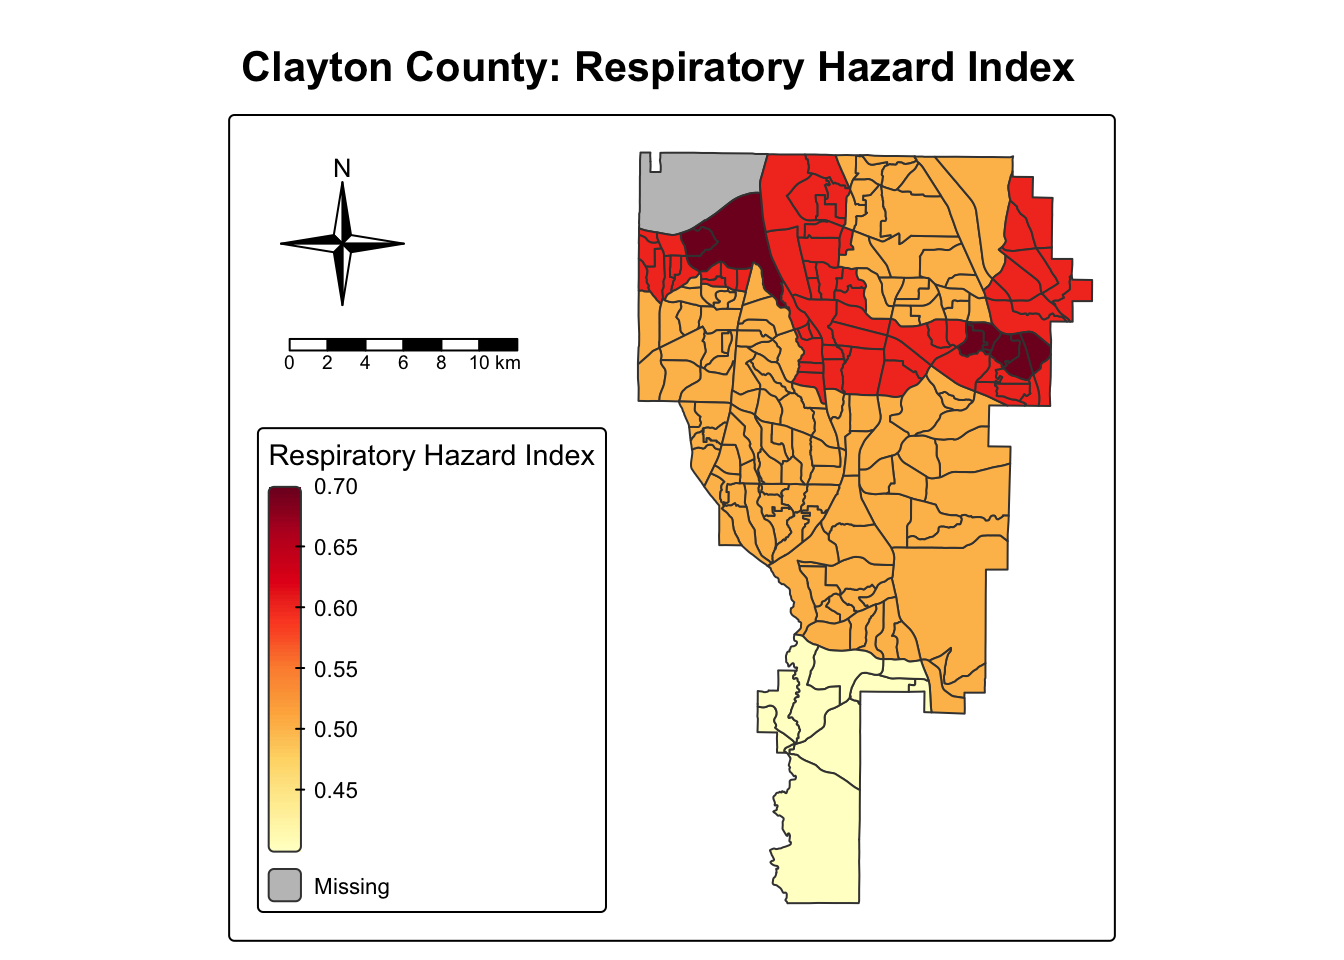
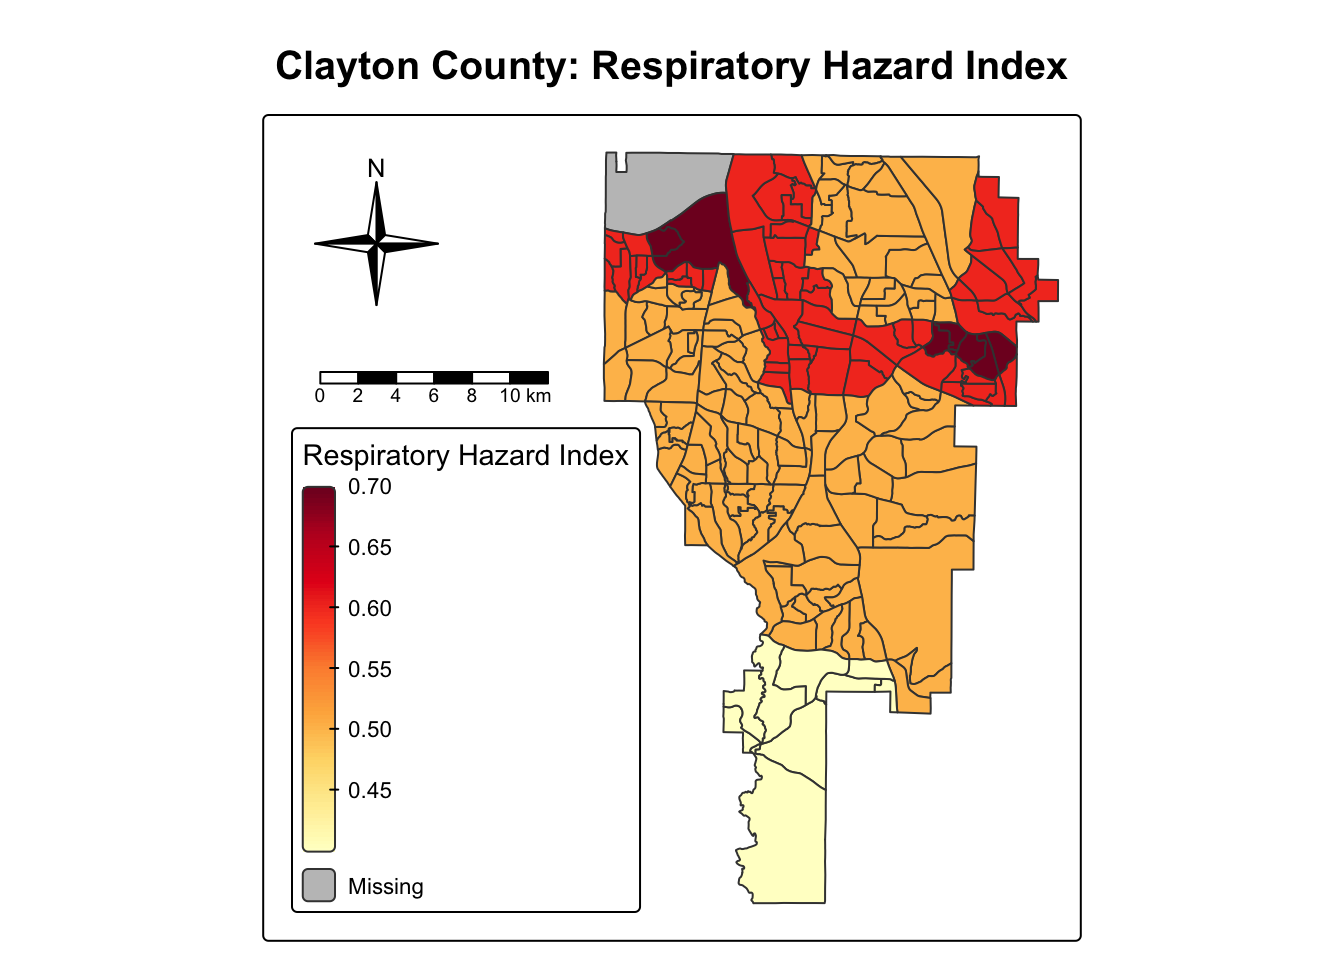
Adjust comments

diff --git a/eds223-hw1/ej_screen.html b/eds223-hw1/ej_screen.html
@@ -119,30 +119,34 @@ Projected CRS: WGS 84 / Pseudo-Mercator</code></pre>
 <section id="georgia-usa" class="level1">
 <h1>Georgia, USA</h1>
 <div class="cell">
-<div class="sourceCode cell-code" id="cb4"><pre class="sourceCode r code-with-copy"><code class="sourceCode r"><span id="cb4-1"><a href="#cb4-1" aria-hidden="true" tabindex="-1"></a><span class="co"># filter to georgia state</span></span>
+<div class="sourceCode cell-code" id="cb4"><pre class="sourceCode r code-with-copy"><code class="sourceCode r"><span id="cb4-1"><a href="#cb4-1" aria-hidden="true" tabindex="-1"></a><span class="co"># filter to Georgia state</span></span>
 <span id="cb4-2"><a href="#cb4-2" aria-hidden="true" tabindex="-1"></a>georgia <span class="ot">&lt;-</span> ejscreen <span class="sc">|&gt;</span> </span>
 <span id="cb4-3"><a href="#cb4-3" aria-hidden="true" tabindex="-1"></a>  <span class="fu">filter</span>(ST_ABBREV <span class="sc">==</span> <span class="st">"GA"</span>) </span>
 <span id="cb4-4"><a href="#cb4-4" aria-hidden="true" tabindex="-1"></a></span>
 <span id="cb4-5"><a href="#cb4-5" aria-hidden="true" tabindex="-1"></a><span class="co"># filter to Clayton County, Georgia</span></span>
 <span id="cb4-6"><a href="#cb4-6" aria-hidden="true" tabindex="-1"></a>clayton <span class="ot">&lt;-</span> georgia <span class="sc">|&gt;</span> </span>
-<span id="cb4-7"><a href="#cb4-7" aria-hidden="true" tabindex="-1"></a>  <span class="fu">filter</span>(CNTY_NAME <span class="sc">%in%</span> <span class="fu">c</span>(<span class="st">"Clayton County"</span>))</span>
-<span id="cb4-8"><a href="#cb4-8" aria-hidden="true" tabindex="-1"></a></span>
-<span id="cb4-9"><a href="#cb4-9" aria-hidden="true" tabindex="-1"></a><span class="co"># find average values for all variables within counties</span></span>
-<span id="cb4-10"><a href="#cb4-10" aria-hidden="true" tabindex="-1"></a>georgia_counties_means <span class="ot">&lt;-</span> <span class="fu">aggregate</span>(georgia, <span class="at">by =</span> <span class="fu">list</span>(georgia<span class="sc">$</span>CNTY_NAME), <span class="at">FUN =</span> mean)</span></code><button title="Copy to Clipboard" class="code-copy-button"><i class="bi"></i></button></pre></div>
+<span id="cb4-7"><a href="#cb4-7" aria-hidden="true" tabindex="-1"></a>  <span class="fu">filter</span>(CNTY_NAME <span class="sc">%in%</span> <span class="fu">c</span>(<span class="st">"Clayton County"</span>))</span></code><button title="Copy to Clipboard" class="code-copy-button"><i class="bi"></i></button></pre></div>
 </div>
 <div class="cell">
 <div class="sourceCode cell-code" id="cb5"><pre class="sourceCode r code-with-copy"><code class="sourceCode r"><span id="cb5-1"><a href="#cb5-1" aria-hidden="true" tabindex="-1"></a><span class="co"># Create first map</span></span>
 <span id="cb5-2"><a href="#cb5-2" aria-hidden="true" tabindex="-1"></a><span class="fu">tm_shape</span>(clayton) <span class="sc">+</span></span>
 <span id="cb5-3"><a href="#cb5-3" aria-hidden="true" tabindex="-1"></a>  <span class="fu">tm_polygons</span>(<span class="at">fill =</span> <span class="st">"PEOPCOLORPCT"</span>,</span>
-<span id="cb5-4"><a href="#cb5-4" aria-hidden="true" tabindex="-1"></a>              <span class="at">fill.scale =</span> <span class="fu">tm_scale_continuous</span>(<span class="at">values =</span> <span class="st">'brewer.yl_or_rd'</span>),</span>
-<span id="cb5-5"><a href="#cb5-5" aria-hidden="true" tabindex="-1"></a>              <span class="at">fill.legend =</span> <span class="fu">tm_legend</span>(<span class="at">title =</span> <span class="st">"Percent People of Color"</span>,</span>
-<span id="cb5-6"><a href="#cb5-6" aria-hidden="true" tabindex="-1"></a>                                      <span class="at">reverse =</span> <span class="cn">TRUE</span>,</span>
-<span id="cb5-7"><a href="#cb5-7" aria-hidden="true" tabindex="-1"></a>                                      <span class="at">labels =</span> <span class="fu">c</span>(<span class="st">"100%"</span>, <span class="st">"80%"</span>, <span class="st">"60%"</span>, <span class="st">"40%"</span>, <span class="st">"20%"</span>, <span class="st">"0%"</span>))) <span class="sc">+</span></span>
-<span id="cb5-8"><a href="#cb5-8" aria-hidden="true" tabindex="-1"></a>  <span class="fu">tm_title</span>(<span class="at">text =</span> <span class="st">"Clayton County: Percent People of Color"</span>, <span class="at">fontface =</span> <span class="st">'bold'</span>) <span class="sc">+</span></span>
-<span id="cb5-9"><a href="#cb5-9" aria-hidden="true" tabindex="-1"></a>  <span class="fu">tm_compass</span>(<span class="at">position =</span> <span class="fu">c</span>(<span class="st">"left"</span>, <span class="st">"top"</span>), <span class="at">type =</span> <span class="st">'4star'</span>) <span class="sc">+</span> <span class="co"># Add compass</span></span>
-<span id="cb5-10"><a href="#cb5-10" aria-hidden="true" tabindex="-1"></a>  <span class="fu">tm_scalebar</span>(<span class="at">position =</span> <span class="fu">c</span>(<span class="fl">0.05</span>, <span class="fl">0.71</span>), <span class="at">text.size =</span> <span class="fl">0.6</span>) <span class="sc">+</span> <span class="co"># Add scale bar</span></span>
-<span id="cb5-11"><a href="#cb5-11" aria-hidden="true" tabindex="-1"></a>  <span class="fu">tm_layout</span>(<span class="at">legend.position =</span> <span class="fu">c</span>(<span class="st">"left"</span>, <span class="st">"bottom"</span>), </span>
-<span id="cb5-12"><a href="#cb5-12" aria-hidden="true" tabindex="-1"></a>            <span class="at">inner.margins =</span> <span class="fu">c</span>(<span class="fl">0.05</span>, <span class="fl">0.69</span>, <span class="fl">0.05</span>, <span class="fl">0.05</span>)) </span></code><button title="Copy to Clipboard" class="code-copy-button"><i class="bi"></i></button></pre></div>
+<span id="cb5-4"><a href="#cb5-4" aria-hidden="true" tabindex="-1"></a>              <span class="co"># Use tm_scale_continuous for continuous variable</span></span>
+<span id="cb5-5"><a href="#cb5-5" aria-hidden="true" tabindex="-1"></a>              <span class="at">fill.scale =</span> <span class="fu">tm_scale_continuous</span>(<span class="at">values =</span> <span class="st">'brewer.yl_or_rd'</span>),</span>
+<span id="cb5-6"><a href="#cb5-6" aria-hidden="true" tabindex="-1"></a>              </span>
+<span id="cb5-7"><a href="#cb5-7" aria-hidden="true" tabindex="-1"></a>              <span class="co"># Adjust legend</span></span>
+<span id="cb5-8"><a href="#cb5-8" aria-hidden="true" tabindex="-1"></a>              <span class="at">fill.legend =</span> <span class="fu">tm_legend</span>(<span class="at">title =</span> <span class="st">"Percent People of Color"</span>,</span>
+<span id="cb5-9"><a href="#cb5-9" aria-hidden="true" tabindex="-1"></a>                                      <span class="at">reverse =</span> <span class="cn">TRUE</span>,</span>
+<span id="cb5-10"><a href="#cb5-10" aria-hidden="true" tabindex="-1"></a>                                      <span class="at">labels =</span> <span class="fu">c</span>(<span class="st">"100%"</span>, <span class="st">"80%"</span>, <span class="st">"60%"</span>, <span class="st">"40%"</span>, <span class="st">"20%"</span>, <span class="st">"0%"</span>))) <span class="sc">+</span></span>
+<span id="cb5-11"><a href="#cb5-11" aria-hidden="true" tabindex="-1"></a>  </span>
+<span id="cb5-12"><a href="#cb5-12" aria-hidden="true" tabindex="-1"></a>  <span class="co"># Add title, compass, and scalebar</span></span>
+<span id="cb5-13"><a href="#cb5-13" aria-hidden="true" tabindex="-1"></a>  <span class="fu">tm_title</span>(<span class="at">text =</span> <span class="st">"Clayton County: Percent People of Color"</span>, <span class="at">fontface =</span> <span class="st">'bold'</span>) <span class="sc">+</span></span>
+<span id="cb5-14"><a href="#cb5-14" aria-hidden="true" tabindex="-1"></a>  <span class="fu">tm_compass</span>(<span class="at">position =</span> <span class="fu">c</span>(<span class="st">"left"</span>, <span class="st">"top"</span>), <span class="at">type =</span> <span class="st">'4star'</span>) <span class="sc">+</span> </span>
+<span id="cb5-15"><a href="#cb5-15" aria-hidden="true" tabindex="-1"></a>  <span class="fu">tm_scalebar</span>(<span class="at">position =</span> <span class="fu">c</span>(<span class="fl">0.05</span>, <span class="fl">0.71</span>), <span class="at">text.size =</span> <span class="fl">0.6</span>) <span class="sc">+</span> </span>
+<span id="cb5-16"><a href="#cb5-16" aria-hidden="true" tabindex="-1"></a>  </span>
+<span id="cb5-17"><a href="#cb5-17" aria-hidden="true" tabindex="-1"></a>  <span class="co"># Adjust legend position and inner map margins to fit legend inside of map frame</span></span>
+<span id="cb5-18"><a href="#cb5-18" aria-hidden="true" tabindex="-1"></a>  <span class="fu">tm_layout</span>(<span class="at">legend.position =</span> <span class="fu">c</span>(<span class="st">"left"</span>, <span class="st">"bottom"</span>), </span>
+<span id="cb5-19"><a href="#cb5-19" aria-hidden="true" tabindex="-1"></a>            <span class="at">inner.margins =</span> <span class="fu">c</span>(<span class="fl">0.05</span>, <span class="fl">0.69</span>, <span class="fl">0.05</span>, <span class="fl">0.05</span>)) </span></code><button title="Copy to Clipboard" class="code-copy-button"><i class="bi"></i></button></pre></div>
 <div class="cell-output-display">
 <div>
 <figure class="figure">
@@ -161,9 +165,9 @@ Projected CRS: WGS 84 / Pseudo-Mercator</code></pre>
 <span id="cb6-7"><a href="#cb6-7" aria-hidden="true" tabindex="-1"></a>                                      <span class="at">height =</span> <span class="dv">18</span>)) <span class="sc">+</span></span>
 <span id="cb6-8"><a href="#cb6-8" aria-hidden="true" tabindex="-1"></a>  <span class="fu">tm_title</span>(<span class="at">text =</span> <span class="st">"Clayton County: Respiratory Hazard Index"</span>, <span class="at">fontface =</span> <span class="st">'bold'</span>) <span class="sc">+</span></span>
 <span id="cb6-9"><a href="#cb6-9" aria-hidden="true" tabindex="-1"></a>  <span class="fu">tm_compass</span>(<span class="at">position =</span> <span class="fu">c</span>(<span class="st">"left"</span>, <span class="st">"top"</span>), <span class="at">type =</span> <span class="st">'4star'</span>) <span class="sc">+</span></span>
-<span id="cb6-10"><a href="#cb6-10" aria-hidden="true" tabindex="-1"></a>  <span class="fu">tm_scalebar</span>(<span class="at">position =</span> <span class="fu">c</span>(<span class="fl">0.05</span>, <span class="fl">0.75</span>), <span class="at">text.size =</span> <span class="fl">0.6</span>) <span class="sc">+</span></span>
+<span id="cb6-10"><a href="#cb6-10" aria-hidden="true" tabindex="-1"></a>  <span class="fu">tm_scalebar</span>(<span class="at">position =</span> <span class="fu">c</span>(<span class="fl">0.05</span>, <span class="fl">0.71</span>), <span class="at">text.size =</span> <span class="fl">0.6</span>) <span class="sc">+</span></span>
 <span id="cb6-11"><a href="#cb6-11" aria-hidden="true" tabindex="-1"></a>  <span class="fu">tm_layout</span>(<span class="at">legend.position =</span> <span class="fu">c</span>(<span class="st">"left"</span>, <span class="st">"bottom"</span>),</span>
-<span id="cb6-12"><a href="#cb6-12" aria-hidden="true" tabindex="-1"></a>            <span class="at">inner.margins =</span> <span class="fu">c</span>(<span class="fl">0.05</span>, <span class="fl">0.9</span>, <span class="fl">0.05</span>, <span class="fl">0.05</span>))</span></code><button title="Copy to Clipboard" class="code-copy-button"><i class="bi"></i></button></pre></div>
+<span id="cb6-12"><a href="#cb6-12" aria-hidden="true" tabindex="-1"></a>            <span class="at">inner.margins =</span> <span class="fu">c</span>(<span class="fl">0.05</span>, <span class="fl">0.75</span>, <span class="fl">0.05</span>, <span class="fl">0.05</span>))</span></code><button title="Copy to Clipboard" class="code-copy-button"><i class="bi"></i></button></pre></div>
 <div class="cell-output-display">
 <div>
 <figure class="figure">
@@ -172,7 +176,7 @@ Projected CRS: WGS 84 / Pseudo-Mercator</code></pre>
 </div>
 </div>
 </div>
-<p>The state of Georgia has some of the nation’s worst air quality according to the <a href="https://www.lung.org/research/sota/city-rankings/states/georgia">American Lung Association</a>. Additionally, <a href="https://blackdemographics.com/population/black-state-population/">Black Demographics</a> has ranked Georgia as second highest percent black population in the US. The first map shows this distribution of percent people of color in Clayton County, concentrated in northern parts of the county. The second map shows the distribution of the EPA’s AirToxScreen respiratory hazard index, derived from measuring toxic pollutants in ambient outdoor air. The hazard index is a unit-less measurement of the risk for developing non-cancer respiratory illnesses like asthma and bronchitis. The most hazardous districts lie in close proximity to districts with higher percentage of black populations which shows one example of environmental injustice that black communities face in the US.</p>
+<p>The state of Georgia has some of the nation’s worst air quality according to the <a href="https://www.lung.org/research/sota/city-rankings/states/georgia">American Lung Association</a>. Additionally, <a href="https://blackdemographics.com/population/black-state-population/">Black Demographics</a> has ranked Georgia as second highest percent black population in the US. The first map shows this distribution of percent people of color in Clayton County, Georgia concentrated in northern parts of the county. The second map shows the distribution of the EPA’s AirToxScreen respiratory hazard index, derived from measuring toxic pollutants in ambient outdoor air. The hazard index is a unit-less measurement of the risk for developing non-cancer respiratory illnesses like asthma and bronchitis. The most hazardous districts lie in close proximity to districts with higher percentage of black populations which shows one example of environmental injustice that black communities face in the US.</p>
 </section>
 
 </main>
